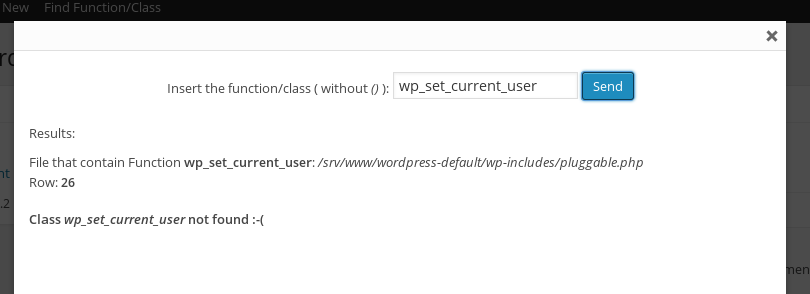
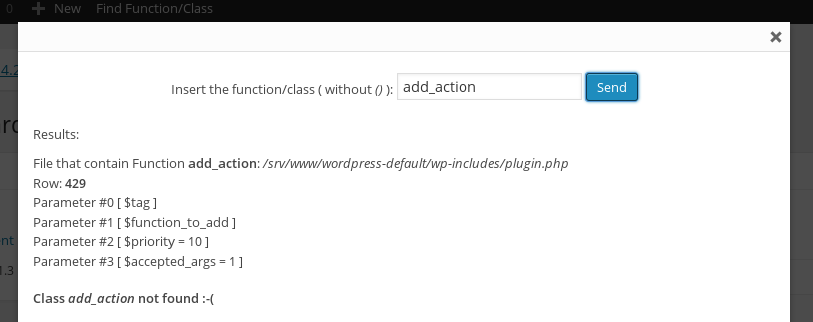
version 1.0.1 with new features

Changed region(s): [[0.0, 0.0, 1.0, 1.0], [0.1852, 0.2143, 0.8025, 0.3673], [0.9568, 0.8878, 1.0, 0.949]]

diff --git a/js/modal.js b/js/modal.js
@@ -3,6 +3,11 @@ jQuery(document).ready(function () {
   jQuery('#wpadminbar .findfunction-menu a').addClass('thickbox');
   //Fix some problem about thickbox
   jQuery('body').removeClass('index-php');
+  jQuery('#findfunction-input').keypress(function (e) {
+    if (e.which === 13) {
+      jQuery('#findfunction-button').trigger('click');
+    }
+  });
   //Search the function
   jQuery('#findfunction-button').click(function () {
     //Fix for the width

diff --git a/find-function.php b/find-function.php
@@ -4,7 +4,7 @@
   Plugin Name: Find Function or Class
   Plugin URI: http://mte90.net
   Description: Found the function or class on the page (file and row inline) that you are visiting
-  Version: 1.0.0
+  Version: 1.0.1
   Author: Mte90
   Author URI: http://mte90.net
   License: GPLv2 or later
@@ -117,7 +117,7 @@ class Find_Function {
 				<p style="margin-bottom:0;">
 					Results:
 				</p>
-				<p id="find-function-found" style="margin-top:0;">
+				<p id="find-function-found" style="margin-top:-5px;">
 				</p>
 		</div>';
 	}
@@ -132,25 +132,42 @@ class Find_Function {
 		echo '<div id="find-function-result">';
 		//The function exist?
 		try {
-			$reflFunc = new ReflectionFunction( $_GET[ 'function' ] );
-			echo 'File that contain Function <b>' . $_GET[ 'function' ] . '</b>: <i>' . $reflFunc->getFileName() . '</i>';
+			$reflFunc = new ReflectionFunction( esc_html( $_GET[ 'function' ] ) );
+			echo 'File that contain Function <b>' . esc_html( $_GET[ 'function' ] ) . '</b>: <i>' . $reflFunc->getFileName() . '</i>';
 			echo '<br>';
 			echo 'Row: <b>' . $reflFunc->getStartLine() . '</b>';
+			if ( !empty( $reflFunc->getParameters() ) ) {
+				foreach ( $reflFunc->getParameters() as $param ) {
+					echo '<br>'.$param;
+				}
+			}
 		} catch ( Exception $e ) {
-			echo '<p><b>Function <i>' . $_GET[ 'function' ] . '</i> not found :-(</b><p>';
+			echo '<p><b>Function <i>' . esc_html( $_GET[ 'function' ] ) . '</i> not found :-(</b><p>';
 		}
 		//The class exist?
 		try {
-			$reflClass = new ReflectionClass( $_GET[ 'function' ] );
-			echo 'File that contain Class <b>' . $_GET[ 'function' ] . '</b>: <i>' . $reflClass->getFileName() . '</i>';
+			$reflClass = new ReflectionClass( esc_html( $_GET[ 'function' ] ) );
+			echo 'File that contain Class <b>' . esc_html( $_GET[ 'function' ] ) . '</b>: <i>' . $reflClass->getFileName() . '</i>';
 			echo '<br>';
 			echo 'Row: <b>' . $reflClass->getStartLine() . '</b>';
+			if ( !empty( $reflClass->getConstructor()->getParameters() ) ) {
+				foreach ( $reflClass->getConstructor()->getParameters() as $param ) {
+					echo '<br>'.$param;
+				}
+			}
+			if ( !empty($reflClass->getMethods() ) ) {
+				echo '<br>Methods:<br>';
+				foreach ( $reflClass->getMethods() as $param ) {
+					echo '&nbsp;&nbsp;'.$param->name . '<br>';
+				}
+			}
 		} catch ( Exception $e ) {
-			echo '<p><b>Class <i>' . $_GET[ 'function' ] . '</i> not found :-(</b></p>';
+			echo '<p><b>Class <i>' . esc_html( $_GET[ 'function' ] ) . '</i> not found :-(</b></p>';
 		}
 		echo '</div>';
 	}
 
 }
+
 //Load the plugin
 add_action( 'plugins_loaded', array( 'Find_Function', 'get_instance' ) );
